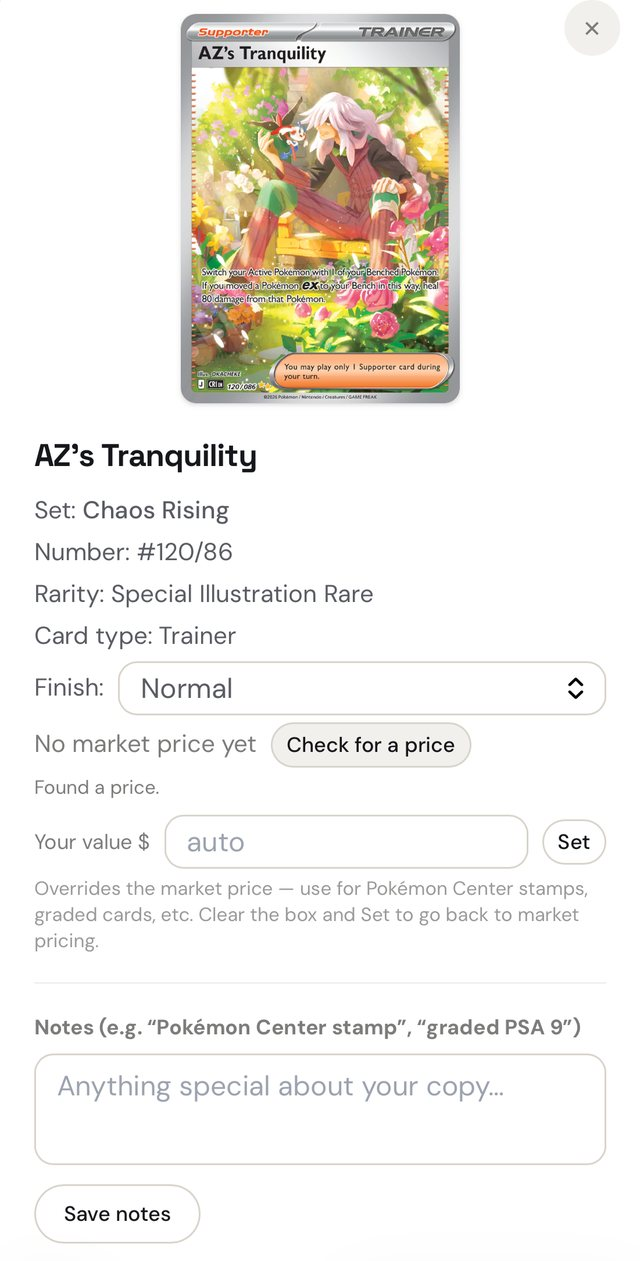
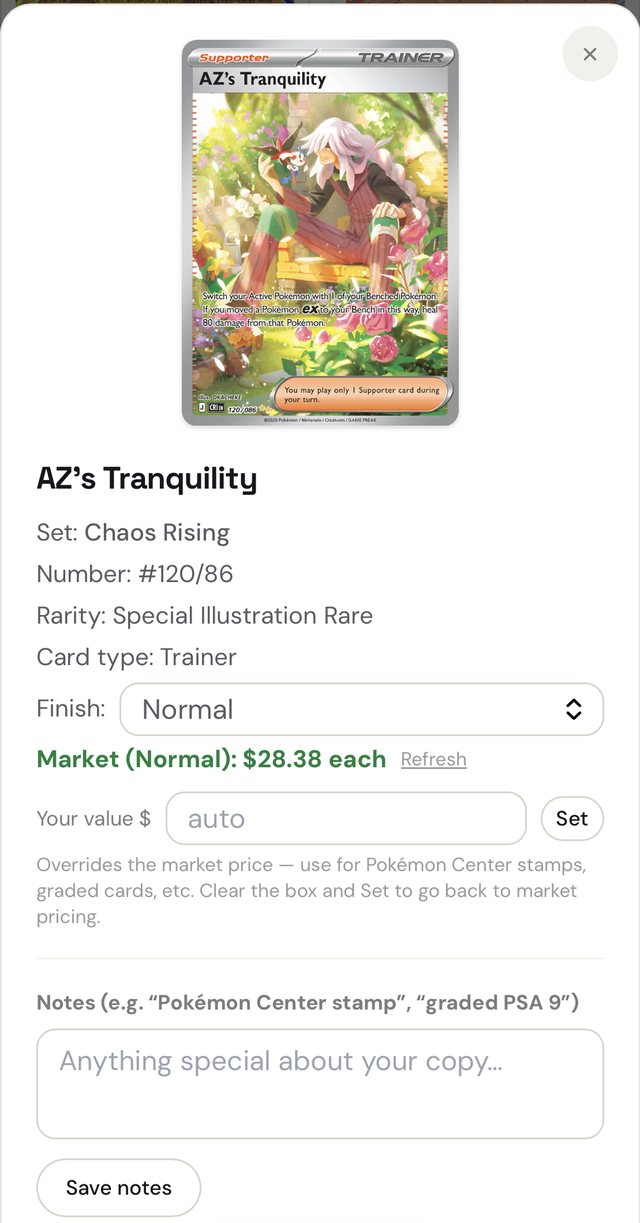
Use the priced card detail in the hero
The capture behind the front phone was taken while that card still had no
value, so the one line a visitor might read on it said "No market price
yet". Replaced with the same screen now that the price lands: "Market
(Normal): $28.38 each".

Cropped the same way — dimmed backdrop trimmed off all four sides so it
reads as a full app screen rather than a dialog over a greyed page.

Claude-Session: https://claude.ai/code/session_01CguSCR3T47Xf388bqfUFjz

diff --git a/src/components/marketing/Landing.tsx b/src/components/marketing/Landing.tsx
@@ -95,10 +95,10 @@ function Placeholder({ label, dark = false, className }: { label: string; dark?:
 function PhoneStack() {
   return (
     <div className="relative mx-auto flex w-full max-w-[560px] items-center justify-end py-4">
-      {/* Behind: a card's detail, tilted and mostly covered. It is there to
-          say "there is more than one screen", so it only needs an edge —
-          and it hides entirely on narrow screens, where two phones is
-          clutter rather than depth. */}
+      {/* Behind: a card's detail with a live market price on it, tilted and
+          mostly covered. It is there to say "there is more than one screen",
+          so it only needs an edge — and it hides entirely on narrow screens,
+          where two phones is clutter rather than depth. */}
       <div className="absolute bottom-[6%] left-0 hidden aspect-[9/17] w-[50%] -rotate-[8deg] overflow-hidden rounded-[30px] border-[9px] border-brand-ink bg-brand-ink shadow-[0_30px_60px_-25px_rgba(22,23,27,.45)] min-[640px]:block">
         <Image
           src="/shots/hero-card.jpg"
